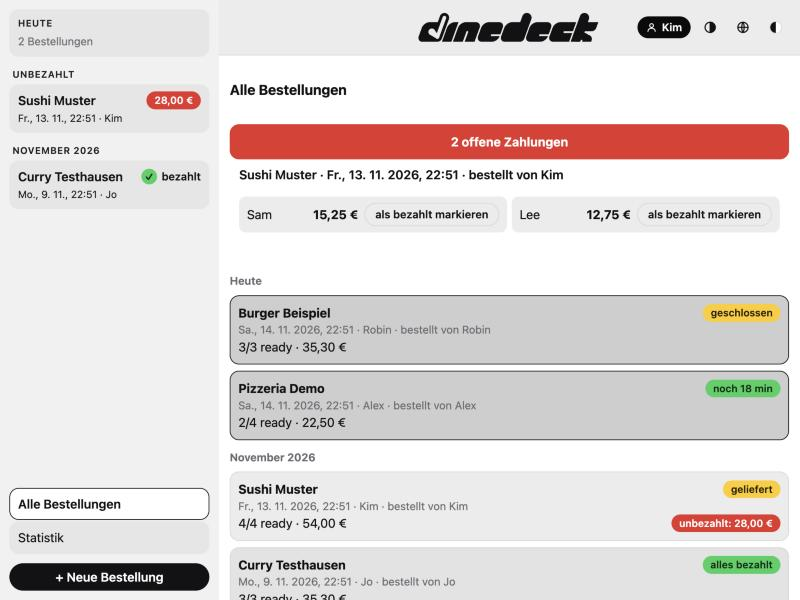
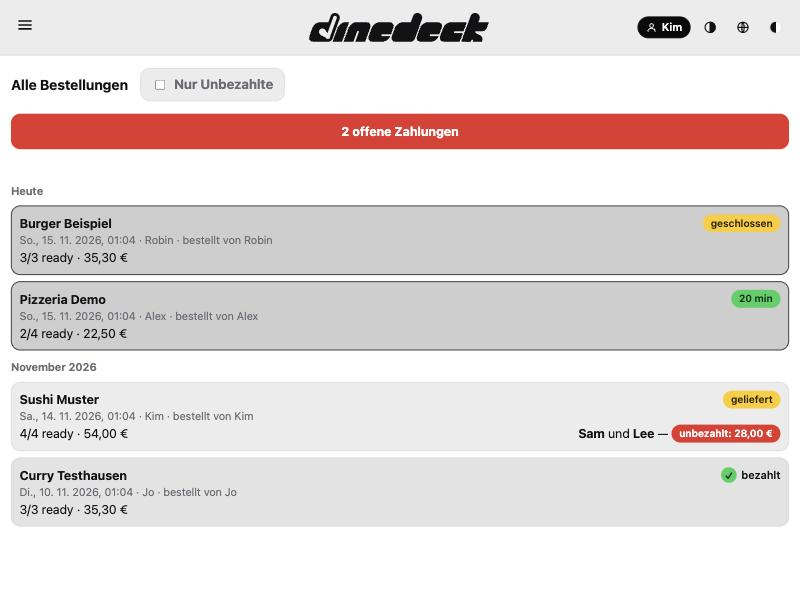
Demo-Bildschirmfotos neu aufgenommen (aktueller Stand), Bild der Bestellliste umbenannt

diff --git a/README.md b/README.md
@@ -49,7 +49,7 @@ Backup while running: `sqlite3 data/dinedeck.db ".backup backup.db"`.
 |---|---|
 | ![Open order](docs/screenshots/order-open.png) | ![Delivered order](docs/screenshots/order-delivered.png) |
 | **Order list** | **All orders** |
-| ![Order list](docs/screenshots/combined-order.png) | ![All orders](docs/screenshots/all-orders.png) |
+| ![Order list](docs/screenshots/order-list.png) | ![All orders](docs/screenshots/all-orders.png) |
 
 ## Sound
 
